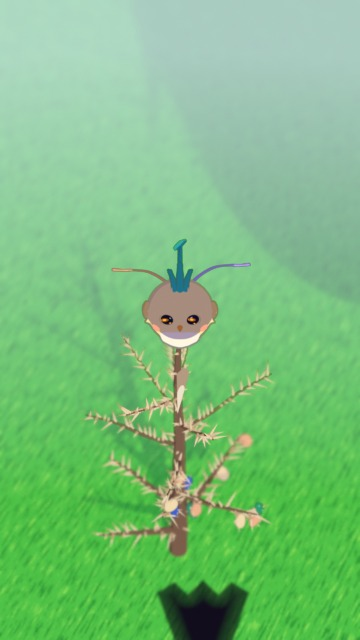
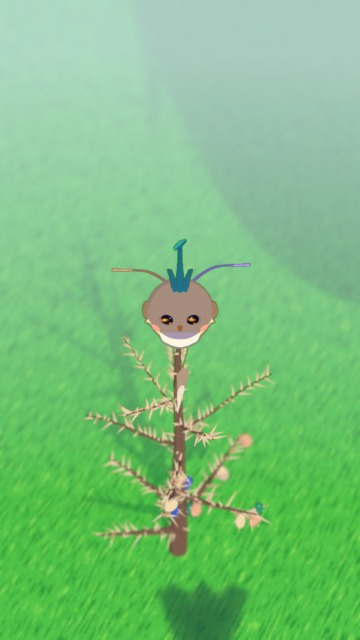
Diorama S23: the bird's giant shadow in the scene's cool shadow tone with a soft edge (was near-black, read as a hole)
Claude-Session: https://claude.ai/code/session_01PF511XprLcpVNCdEQUsUFF

Changed region(s): [[0.4278, 0.9062, 0.7028, 1.0]]

diff --git a/channels/monsters/diorama/xprl.py b/channels/monsters/diorama/xprl.py
@@ -29,7 +29,7 @@ from mathutils import Vector
 from channels.monsters.diorama import bgqrs as d16
 from channels.monsters.ep01v2 import helper5 as h5
 from channels.monsters.ep01v2 import xprl as x3
-from channels.monsters.mk import anim, butcherbird, diorama, hero, meadow, tuftwing
+from channels.monsters.mk import anim, butcherbird, diorama, hero, look, meadow, tuftwing
 
 TAIL = 12
 CUT = {"S22": 45, "S23": 70, "S24": 85}                  # ep01v2/TIMING.md
@@ -136,6 +136,28 @@ def s22():
 
 
 # ------------------------------------------------------------------------------------------------------------- S23
+def _soft_shadow(rig, offset, tone="#24583f", opacity=0.82, soften=7.0):
+    """The bird's giant shadow for the diorama: moved out over the open grass (as helper5's 3D insert does), but in the
+    scene's cool shadow tone (the trees' shadows on this grass) with a soft painted edge, so from above it reads as a
+    shadow and not as a hole in the ground."""
+    from scipy import ndimage
+    sh = rig["shadow"]
+    bpy.context.view_layer.update()
+    mw = sh.matrix_world.copy()
+    mw.translation += Vector(offset)
+    sh.matrix_world = mw
+    nt = sh.data.materials[0].node_tree
+    tex = next(nd for nd in nt.nodes if nd.type == "TEX_IMAGE")
+    em = next(nd for nd in nt.nodes if nd.type == "EMISSION")
+    em.inputs[0].default_value = look.hexc(tone)
+    res = tex.image.size[0]
+    a = ndimage.gaussian_filter(tuftwing.shadow_alpha(res), soften) * opacity / 0.72
+    rgba = np.ones((res, res, 4), np.float32)
+    rgba[..., 3] = np.clip(a, 0, 1)
+    tex.image.pixels.foreach_set(rgba.ravel())
+    tex.image.pack()
+
+
 def s23():
     n = CUT["S23"] + TAIL
     diorama.setup()
@@ -156,7 +178,7 @@ def s23():
     h5._rage_light(bird, 32, perch.z + (tuftwing.CENTER[2] - 0.1) * h5.BIRD_SCALE)
     pond = Vector((diorama.MAP["pond"][0], diorama.MAP["pond"][1], 0.0))
     reach = (pond - Vector((perch.x, perch.y, 0))).normalized() * 6.5      # the shadow lies out toward the pond
-    h5._deep_shadow(bird, (reach.x, reach.y, 0.0))
+    _soft_shadow(bird, (reach.x, reach.y, 0.0))
     anim.blink(bird, 29)
     _twos(tuftwing._animated(bird))
     sc = bpy.context.scene
